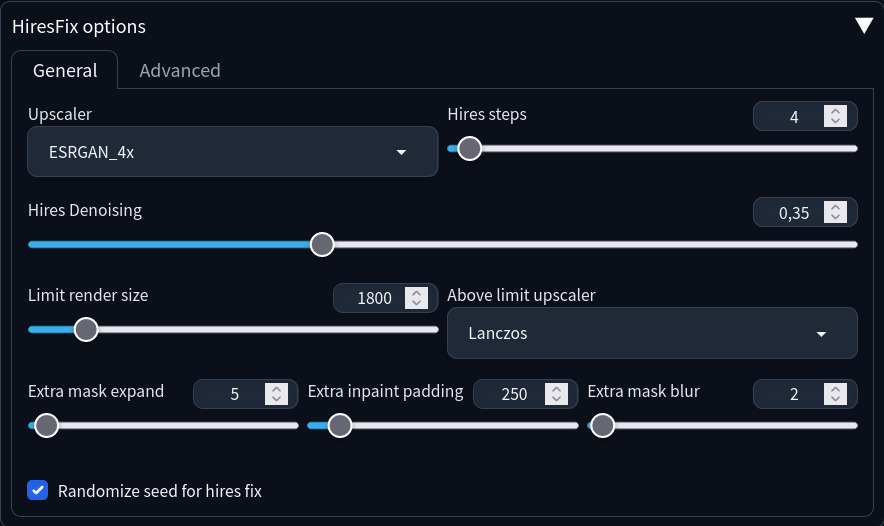
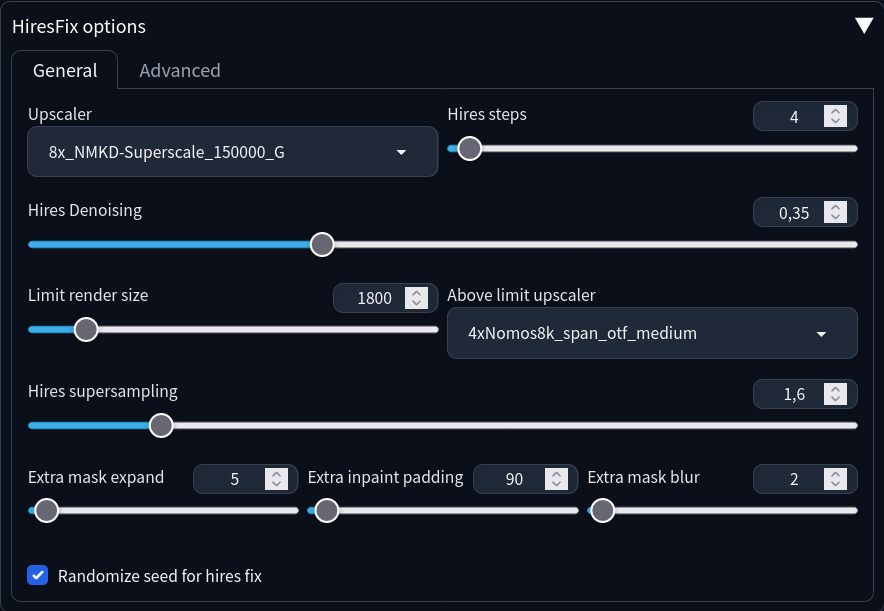
Massive readme and docs update

diff --git a/docs/usage.md b/docs/usage.md
@@ -17,6 +17,7 @@ You can detect few objects, just using comma `,`
 
 - _"Do exactly the number of steps the slider specifies"_: actual steps num is steps from slider * denoising straight
 - _"width"_, _"height"_: internal resolution on generation. 512 for sd1, 1024 for sdxl. If you increase, it will produce mutations for high denoising straight
+- _"Correct aspect ratio"_: Preserve original width x height number of pixels, but follow generated mask's aspect ratio. In some cases can hide necessary context
 - _"Upscaler for img2Img"_: which method will be used to fix the generated image inside the original image. It can be used instead hires fix. DAT upscalers are good. For example this is a good one: https://openmodeldb.info/models/4x-FaceUpDAT
 - _"Rotation fix"_: fixes, if your photo is rotated by 90, 180 or 270 degree and it causes artifacts in detection and generation
 
@@ -34,23 +35,16 @@ You can detect few objects, just using comma `,`
 - _"Soft inpainting"_: can be used instead of inpainting models, or with a small `mask expand` to not change inpainting area too much. E.g. change color. You need to set high `mask blur` for it!
 - _"Mask mode"_: useful to invert selection (Replace everything except something). You need to set a negative `mask expand` for it.
 
-### Avoidance
-![](/docs/images/advanced_options_avoidance.jpg)
+### Others
+![](/docs/images/advanced_options_others.jpg)
 
+### Avoidance
 - You can draw mask or/and type prompt, which will be excluded from the mask
 
 ### Custom mask
-![](/docs/images/advanced_options_custom_mask.jpg)
-
 - If you want to use this extension for regular inpainting by drown mask, to take advantage of HiresFix, batch processing or controlnet inpainting, which are not able in img2img/inpaint tab of webui
 - Or it can be appended to generated mask if `Do not use detection prompt if use custom mask` is disabled. Opposite of avoidance mask
 
-### Inpaing Diff
-*discontinued, maybe temporary*
-
-![](/docs/images/advanced_options_inpaint_diff.jpg)
-
-[Inpaint Difference](https://github.com/John-WL/sd-webui-inpaint-difference) extension.
 
 ## HiresFix
 You can select the blurred image in the gallery, then press "Apply HiresFix ✨" button. Or you can enable `Pass into hires fix automatically`
@@ -64,6 +58,7 @@ Note: hires fix is designed for single-user server
 ### Options - General
 ![](/docs/images/hiresfix_options_general.jpg)
 - _"Extra inpaint padding"_: higher are recommended because generation size will never be higher then the original image
+- _"Hires supersampling"_: 1.0 is the resolution of original image's crop region, but not smaller then firstpass resolution. More then 1.0 - multiplying on this number each sides. It calculates before limiting resolution, so it still can't be bigger then you set above
 
 ### Options - Advanced
 ![](/docs/images/hiresfix_options_advanced.jpg)

diff --git a/README.md b/README.md
@@ -13,7 +13,7 @@ You also can draw your mask instead of or in addition to detection, and take adv
 1. Install [sd-webui-segment-anything](https://github.com/continue-revolution/sd-webui-segment-anything) extension. If it bothers you, you can hide it in the Replacer's settings. Go to tab `Extension` -> `Available` -> click `Load from` and search _"sd-webui-segment-anything"_
 2. Download model [sam_hq_vit_l.pth](https://huggingface.co/lkeab/hq-sam/resolve/main/sam_hq_vit_l.pth), or others from the list bellow, and put it into `extensions/sd-webui-segment-anything/models/sam`
 3. For faster hires fix, download [lcm-lora-sdv1-5](https://huggingface.co/latent-consistency/lcm-lora-sdv1-5/blob/main/pytorch_lora_weights.safetensors), rename it into `lcm-lora-sdv1-5.safetensors`, put into `models/Lora`. Or if you have already lcm lora, then change hires suffix in the extension options
-4. Install this extension. Go to tab `Extension` -> `Available` -> click `Load from` and search _"Replacer"_. Be sure your sd-webui version is >= 1.5.0. For AMD and Intel GPUs, and maybe something else, you need to enable CPU for detection in Replacer's settings. Go to `Settings` -> `Replacer` and enable it
+4. Install this extension. Go to tab `Extension` -> `Available` -> click `Load from` and search _"Replacer"_. For AMD and Intel GPUs, and maybe something else, you need to enable CPU for detection in Replacer's settings. Go to `Settings` -> `Replacer` and enable it
 5. Reload UI
 
 If you don't want to use Video feature, that's all for you. Further steps are for Video:
